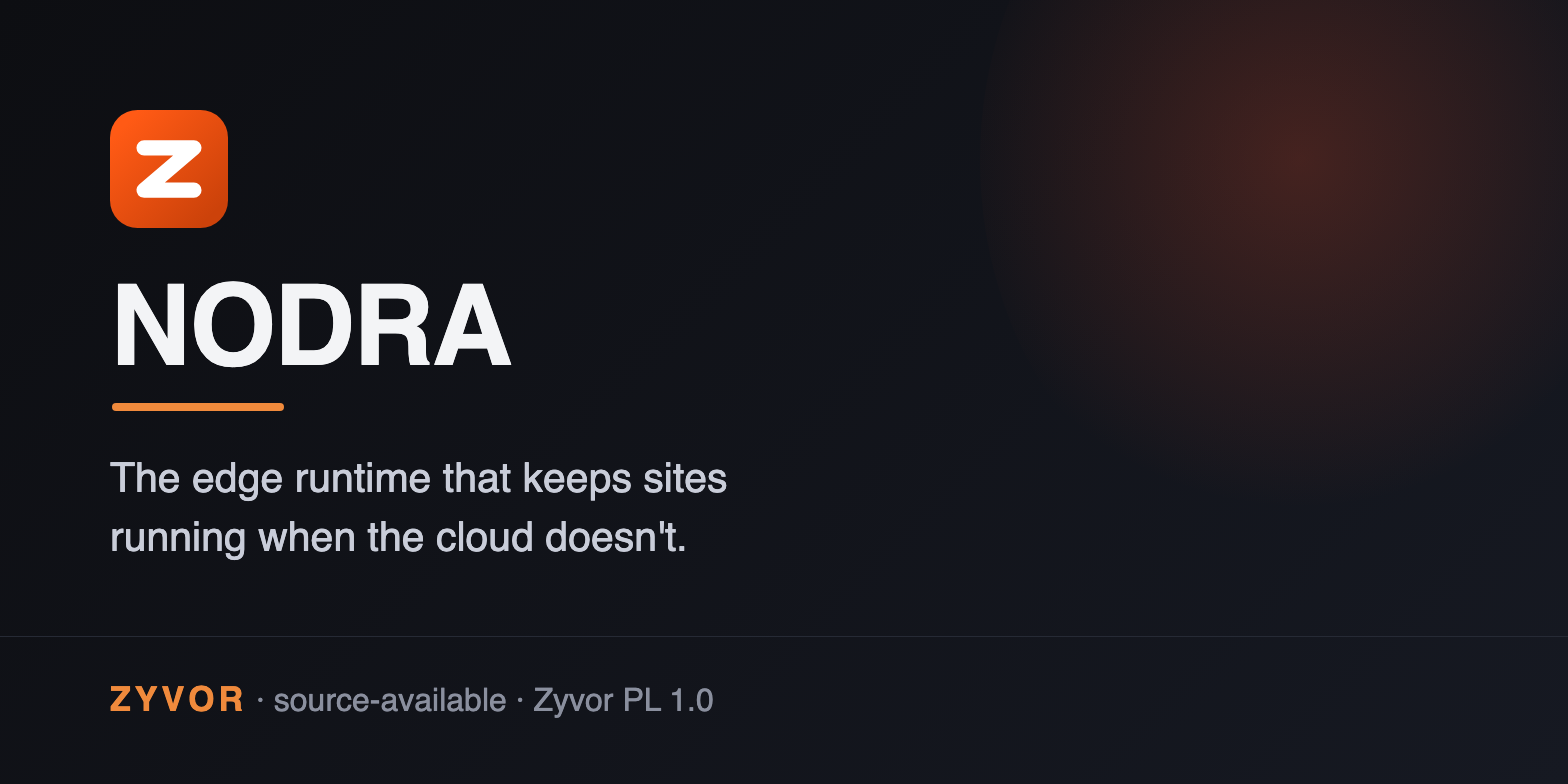
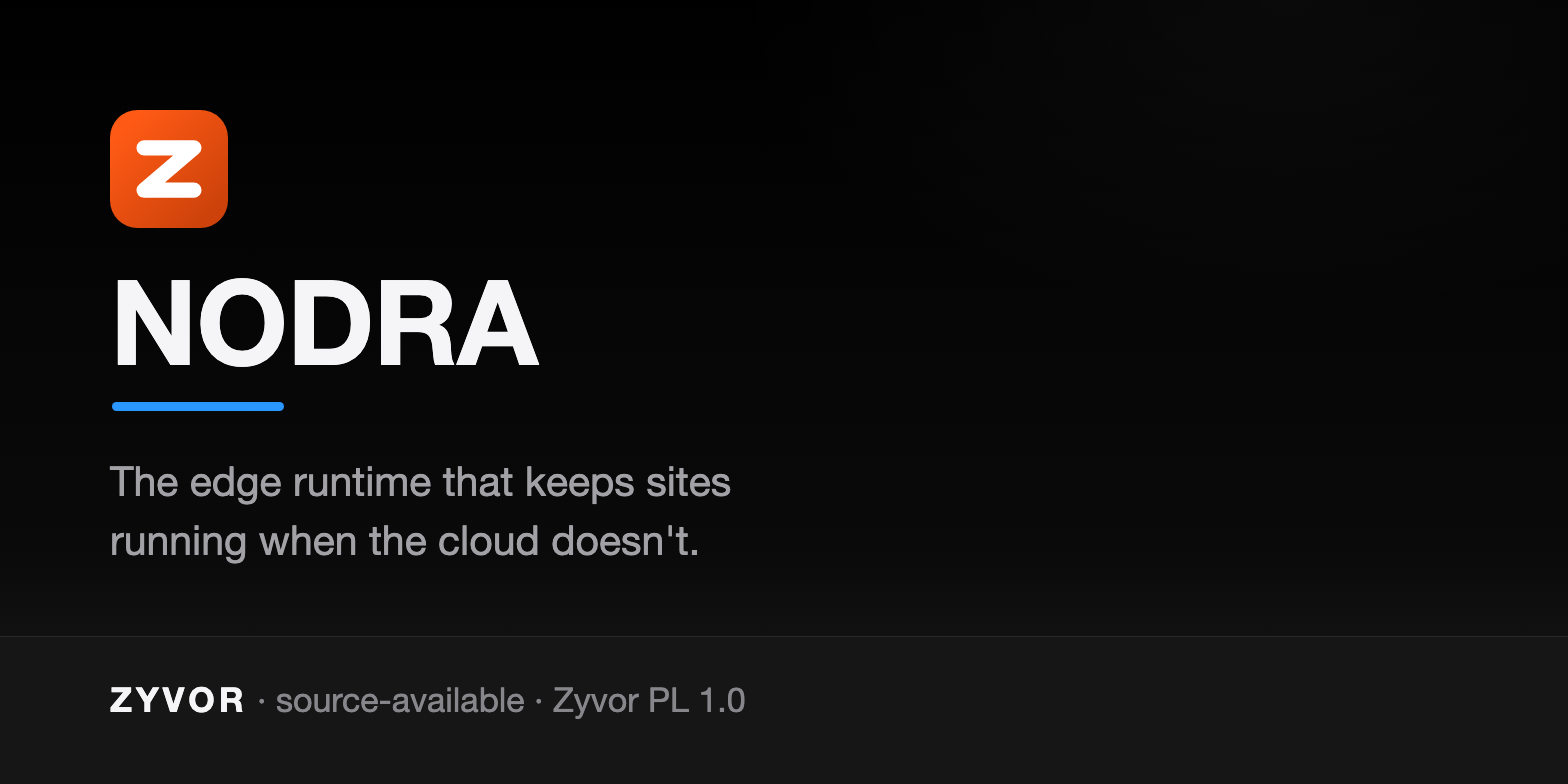
docs: remove community tier, apple-dark social cards

diff --git a/docs/social/nodra-social-card.html b/docs/social/nodra-social-card.html
@@ -9,12 +9,12 @@
   Build:  ./docs/social/build-social-card.sh   ->  nodra-social-card.jpg
 -->
 <style>
-  :root { --ink:#0d0d0c; --soft:#5a544c; --signal:#ff5a15; --deep:#cc420a; --line:#e7ded2; --warm:#fbf7f2; --pale:#fff1e9;
-    --blue:#2b5fd9; --green:#1f7a4d;
+  :root { --ink:#f5f5f7; --soft:#86868b; --signal:#2997ff; --btn:#0071e3; --deep:#2997ff; --line:rgba(255,255,255,.08); --warm:#000; --pale:#1d1d1f;
+    --blue:#5e5ce6; --green:#248a3d;
     --sans:'Helvetica Neue',Helvetica,Arial,sans-serif; --mono:'SF Mono',Menlo,Consolas,monospace; }
   * { box-sizing:border-box; }
   html,body { margin:0; padding:0; }
-  body { width:1600px; height:900px; overflow:hidden; background:var(--warm); color:var(--ink); font-family:var(--sans); position:relative; }
+  body { width:1600px; height:900px; overflow:hidden; background:radial-gradient(900px 520px at 78% 0%,rgba(255,255,255,.04),transparent 62%),#000; color:var(--ink); font-family:var(--sans); position:relative; }
   .bar { position:absolute; left:0; top:0; bottom:0; width:14px; background:var(--signal); }
   .wrap { position:absolute; left:72px; right:64px; top:48px; bottom:40px; display:flex; flex-direction:column; }
 
@@ -25,10 +25,10 @@
 
   h1 { margin:26px 0 0; font-size:68px; line-height:1.06; letter-spacing:-.025em; font-weight:700; max-width:1440px; }
   h1 em { font-style:normal; color:var(--signal); }
-  .sub { margin:16px 0 0; font-size:27px; line-height:1.36; color:#26231f; max-width:1320px; }
+  .sub { margin:16px 0 0; font-size:27px; line-height:1.36; color:#a1a1a6; max-width:1320px; }
 
   .flow { margin-top:34px; display:grid; grid-template-columns:repeat(5,1fr); gap:34px; }
-  .step { position:relative; background:#fff; border:2.5px solid var(--c); border-radius:16px; padding:18px 20px 18px 24px; min-height:222px; }
+  .step { position:relative; background:#1d1d1f; border:2.5px solid var(--c); border-radius:16px; padding:18px 20px 18px 24px; min-height:222px; }
   .step::before { content:""; position:absolute; left:0; top:0; bottom:0; width:9px; background:var(--c); border-radius:13px 0 0 13px; }
   .step:not(:last-child)::after { content:""; position:absolute; right:-31px; top:50%; width:0; height:0; margin-top:-11px;
     border-left:16px solid var(--soft); border-top:11px solid transparent; border-bottom:11px solid transparent; }
@@ -36,17 +36,17 @@
   .n { float:right; width:34px; height:34px; border-radius:50%; background:var(--c); color:#fff; font-weight:700; font-size:19px; line-height:34px; text-align:center; }
   .step h3 { margin:14px 0 8px; font-size:27px; line-height:1.14; letter-spacing:-.01em; }
   .step p { margin:0; font-size:20.5px; line-height:1.34; color:var(--soft); }
-  .k { --c:var(--signal); } .a { --c:var(--ink); } .c { --c:var(--blue); } .o { --c:var(--green); } .o2 { --c:var(--deep); }
+  .k { --c:var(--btn); } .a { --c:#86868b; } .c { --c:var(--blue); } .o { --c:var(--green); } .o2 { --c:var(--deep); }
 
-  .attr { margin-top:22px; display:flex; align-items:center; gap:16px; background:var(--ink); color:#f3ede4; border-radius:12px; padding:13px 22px; font-family:var(--mono); font-size:22px; white-space:nowrap; }
+  .attr { margin-top:22px; display:flex; align-items:center; gap:16px; background:#1d1d1f; border:1px solid rgba(255,255,255,.08); color:#f5f5f7; border-radius:12px; padding:13px 22px; font-family:var(--mono); font-size:22px; white-space:nowrap; }
   .attr .tag { color:var(--signal); font-weight:700; letter-spacing:.1em; font-size:16px; }
-  .attr .why { margin-left:auto; color:#a39a8d; font-size:15px; letter-spacing:.06em; text-transform:uppercase; }
+  .attr .why { margin-left:auto; color:#86868b; font-size:15px; letter-spacing:.06em; text-transform:uppercase; }
 
   .chips { margin-top:auto; padding-top:22px; display:flex; flex-wrap:wrap; gap:10px; }
-  .chip { font-size:20px; font-weight:700; padding:5px 14px; border-radius:20px; background:var(--signal); color:#fff; letter-spacing:.02em; border:2px solid var(--signal); }
-  .chip.g { background:#fff; color:var(--deep); border:2px solid var(--signal); }
+  .chip { font-size:20px; font-weight:700; padding:5px 14px; border-radius:20px; background:var(--btn); color:#fff; letter-spacing:.02em; border:2px solid var(--btn); }
+  .chip.g { background:#1d1d1f; color:var(--deep); border:2px solid var(--signal); }
 
-  .foot { margin-top:18px; padding-top:14px; border-top:3px solid var(--ink); display:flex; align-items:center; font-family:var(--mono); font-size:22px; color:var(--soft); }
+  .foot { margin-top:18px; padding-top:14px; border-top:1px solid rgba(255,255,255,.12); display:flex; align-items:center; font-family:var(--mono); font-size:22px; color:var(--soft); }
   .foot b { color:var(--ink); }
   .foot .r { margin-left:auto; }
 </style>

diff --git a/docs/social/nodra-share-card.html b/docs/social/nodra-share-card.html
@@ -8,11 +8,11 @@
   Build:  ./docs/social/build-social-card.sh
 -->
 <style>
-  :root { --ink:#0d0d0c; --soft:#5a544c; --signal:#ff5a15; --deep:#cc420a; --warm:#fbf7f2;
+  :root { --ink:#f5f5f7; --soft:#86868b; --signal:#2997ff; --btn:#0071e3; --deep:#2997ff; --warm:#000;
     --sans:'Helvetica Neue',Helvetica,Arial,sans-serif; --mono:'SF Mono',Menlo,Consolas,monospace; }
   * { box-sizing:border-box; }
   html,body { margin:0; padding:0; }
-  body { width:1200px; height:630px; overflow:hidden; background:var(--warm); color:var(--ink); font-family:var(--sans); position:relative; }
+  body { width:1200px; height:630px; overflow:hidden; background:radial-gradient(900px 520px at 78% 0%,rgba(255,255,255,.04),transparent 62%),#000; color:var(--ink); font-family:var(--sans); position:relative; }
   .bar { position:absolute; left:0; top:0; bottom:0; width:12px; background:var(--signal); }
   .wrap { position:absolute; left:56px; right:48px; top:40px; bottom:36px; display:flex; flex-direction:column; }
 
@@ -23,13 +23,13 @@
 
   h1 { margin:36px 0 0; font-size:52px; line-height:1.08; letter-spacing:-.025em; font-weight:700; max-width:1080px; }
   h1 em { font-style:normal; color:var(--signal); }
-  .sub { margin:18px 0 0; font-size:24px; line-height:1.4; color:#26231f; max-width:980px; }
+  .sub { margin:18px 0 0; font-size:24px; line-height:1.4; color:#a1a1a6; max-width:980px; }
 
   .chips { margin-top:auto; display:flex; flex-wrap:wrap; gap:10px; padding-bottom:18px; }
-  .chip { font-size:18px; font-weight:700; padding:6px 14px; border-radius:20px; background:var(--signal); color:#fff; border:2px solid var(--signal); }
-  .chip.g { background:#fff; color:var(--deep); border:2px solid var(--signal); }
+  .chip { font-size:18px; font-weight:700; padding:6px 14px; border-radius:20px; background:var(--btn); color:#fff; border:2px solid var(--btn); }
+  .chip.g { background:#1d1d1f; color:var(--deep); border:2px solid var(--signal); }
 
-  .foot { padding-top:14px; border-top:3px solid var(--ink); display:flex; align-items:center; font-family:var(--mono); font-size:20px; color:var(--soft); }
+  .foot { padding-top:14px; border-top:1px solid rgba(255,255,255,.12); display:flex; align-items:center; font-family:var(--mono); font-size:20px; color:var(--soft); }
   .foot b { color:var(--ink); }
   .foot .r { margin-left:auto; }
 </style>

diff --git a/docs/social/nodra-preview.html b/docs/social/nodra-preview.html
@@ -1,0 +1,21 @@
+<!doctype html>
+<html lang="en"><head><meta charset="utf-8"><title>NODRA social preview</title>
+<style>
+* { box-sizing:border-box; }
+html,body { margin:0; padding:0; }
+body { width:1568px; height:784px; overflow:hidden; position:relative; color:#f5f5f7;
+  font-family:'Helvetica Neue',Helvetica,Arial,sans-serif;
+  background:radial-gradient(900px 520px at 82% 0%,rgba(255,255,255,.04),transparent 62%),linear-gradient(180deg,#000 0%,#0a0a0b 70%,#1d1d1f 100%); }
+.mark { position:absolute; left:110px; top:110px; width:118px; height:118px; }
+h1 { position:absolute; left:110px; top:262px; margin:0; font-size:118px; line-height:1; font-weight:700; letter-spacing:-.01em; }
+.rule { position:absolute; left:112px; top:402px; width:172px; height:9px; border-radius:5px; background:#2997ff; }
+p { position:absolute; left:110px; top:452px; margin:0; font-size:41px; line-height:59px; color:#a1a1a6; }
+.foot { position:absolute; left:0; right:0; bottom:0; height:148px; border-top:1px solid rgba(255,255,255,.08); background:#161617; }
+.foot div { position:absolute; left:110px; top:42px; font-size:34px; color:#86868b; }
+.foot b { color:#f5f5f7; letter-spacing:.12em; font-size:34px; }
+</style></head><body>
+<svg class="mark" viewBox="0 0 64 64" aria-hidden="true"><defs><linearGradient id="zb" x1="8" y1="8" x2="56" y2="56" gradientUnits="userSpaceOnUse"><stop offset="0" stop-color="#ff5a15"/><stop offset="1" stop-color="#cc420a"/></linearGradient></defs><rect width="64" height="64" rx="15" fill="url(#zb)"/><path d="M18.5,20.5 45.5,20.5 18.5,43.5 45.5,43.5" fill="none" stroke="#fff" stroke-width="8.3" stroke-linecap="round" stroke-linejoin="round"/></svg>
+<h1>NODRA</h1><div class="rule"></div>
+<p>The edge runtime that keeps sites<br>running when the cloud doesn't.</p>
+<div class="foot"><div><b>ZYVOR</b> &middot; source-available &middot; Zyvor PL 1.0</div></div>
+</body></html>

diff --git a/docs/SUBSCRIPTION-MODEL.md b/docs/SUBSCRIPTION-MODEL.md
@@ -1,12 +1,11 @@
 # Nodra: support subscriptions
 
-Nodra is source-available software. Non-production use is free under the Zyvor Production License v1.0; production use requires a commercial license (sales@zyvor.dev).
+Nodra is source-available software. A commercial license is required to run it (sales@zyvor.dev); a 30-day trial key is how to evaluate.
 
 Teams that want supported releases and defined response targets can buy an annual **support subscription** from Zyvor.
 
 | Plan | What you get | Coverage |
 |------|--------------|----------|
-| Community | The software, community documentation and public issue tracking | No contracted response target |
 | Standard | Deployment and upgrade guidance, defined supported configuration | Business hours |
 | Supported | Standard plus priority queue and incident triage | Business hours, faster response |
 | Enterprise | Supported plus a named technical contact and 24x7 critical intake | One-hour initial response target for critical issues |
@@ -26,7 +25,7 @@ Prices are in the [Pricing](#pricing) section below; custom pricing: contact [sa
 
 ## Pricing
 
-The support subscription is priced per device per year, on one ladder shared by Fleet, Relay, Device Agent, OTA and Nodra, with an annual minimum of USD 5,000 (INR 495,600 incl. GST in India) that applies to every step. Non-production use of the software is free under the Zyvor Production License v1.0; production use requires a commercial license.
+The support subscription is priced per device per year, on one ladder shared by Fleet, Relay, Device Agent, OTA and Nodra, with an annual minimum of USD 5,000 (INR 495,600 incl. GST in India) that applies to every step. A commercial license is required to run the software.
 
 | Devices | Elsewhere (USD, excl. tax) | India (INR, incl. 18% GST) |
 |---|---|---|

diff --git a/README.md b/README.md
@@ -434,7 +434,7 @@ How the edge products fit: [docs/INTEGRATIONS.md](docs/INTEGRATIONS.md).
 
 ## Support
 
-Non-production use is free under the Zyvor Production License v1.0; production use requires a commercial license (sales@zyvor.dev). If it helps you, you can donate any amount you like: <https://rzp.io/rzp/utwdYh3>. A donation is voluntary and supports development and maintenance. It is not a purchase: it buys no support, SLA, features, priority or license, and it is not tax-deductible (Zyvor AI Labs Private Limited is a company, not a charity). Support contracts are separate: [sales@zyvor.dev](mailto:sales@zyvor.dev).
+A commercial license is required to run it (sales@zyvor.dev); a 30-day trial key is how to evaluate. If it helps you, you can donate any amount you like: <https://rzp.io/rzp/utwdYh3>. A donation is voluntary and supports development and maintenance. It is not a purchase: it buys no support, SLA, features, priority or license, and it is not tax-deductible (Zyvor AI Labs Private Limited is a company, not a charity). Support contracts are separate: [sales@zyvor.dev](mailto:sales@zyvor.dev).
 
 ## License
 

diff --git a/docs/FAQ.md b/docs/FAQ.md
@@ -11,9 +11,8 @@ starting points.
 
 ## Licensing & cost
 
-**Is it really free?** Non-production use (evaluation, development, testing, research,
-education) is free under the Zyvor Production License v1.0. Production use
-requires a commercial license from Zyvor AI Labs (sales@zyvor.dev,
+**Do I need a license?** Yes. Running it requires a commercial
+license from Zyvor AI Labs (sales@zyvor.dev,
 https://zyvor.dev/buy; a 30-day trial key is available). Notices must be
 preserved (see [`NOTICE`](https://github.com/zyvorai/nodra/blob/main/NOTICE)). See the README's
 [License](https://github.com/zyvorai/nodra#license) section.
@@ -22,8 +21,7 @@ preserved (see [`NOTICE`](https://github.com/zyvorai/nodra/blob/main/NOTICE)). S
 Zyvor's other commercial products are licensed separately from this
 source-available runtime. Prices (per device per year, India in INR incl. GST)
 are in [SUBSCRIPTION-MODEL.md](SUBSCRIPTION-MODEL.md#pricing); buy at
-https://zyvor.dev/buy or contact sales@zyvor.dev. Nothing in this repository
-requires it.
+https://zyvor.dev/buy or contact sales@zyvor.dev.
 
 ## Support
 
